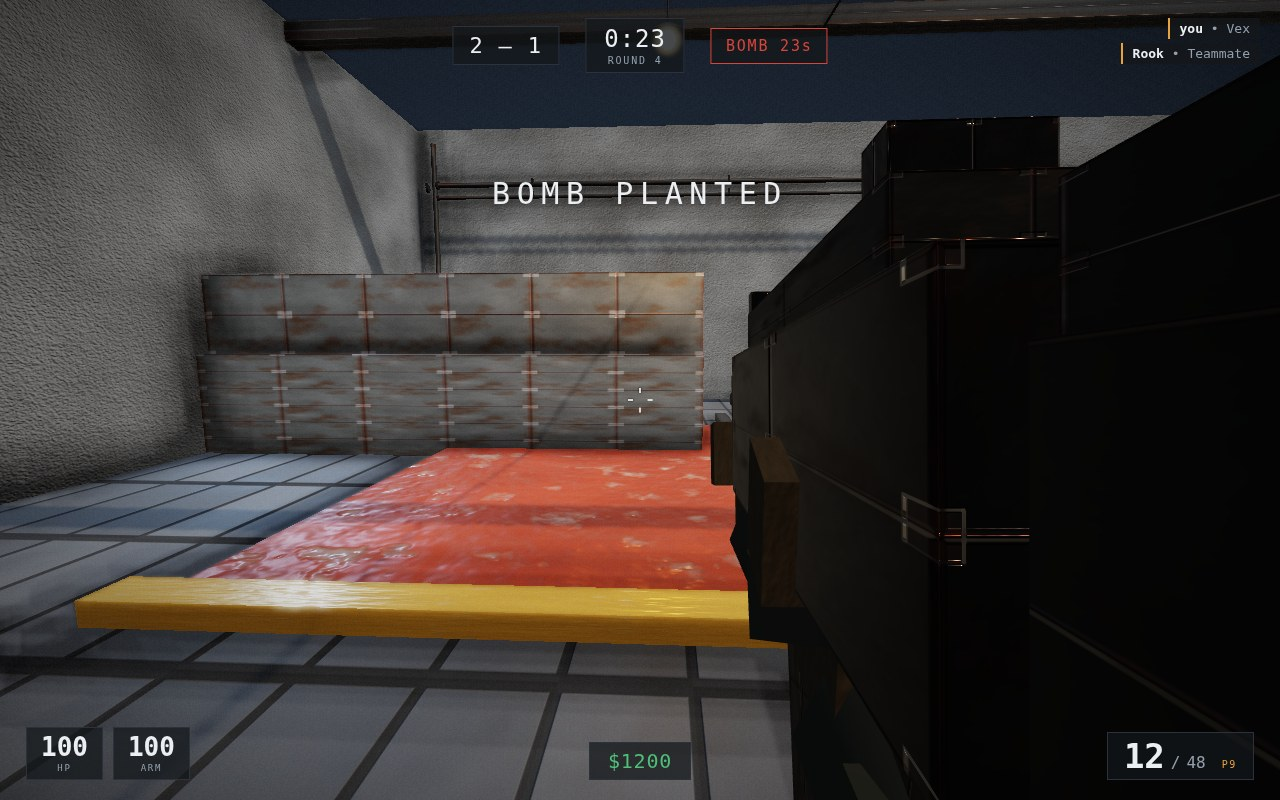
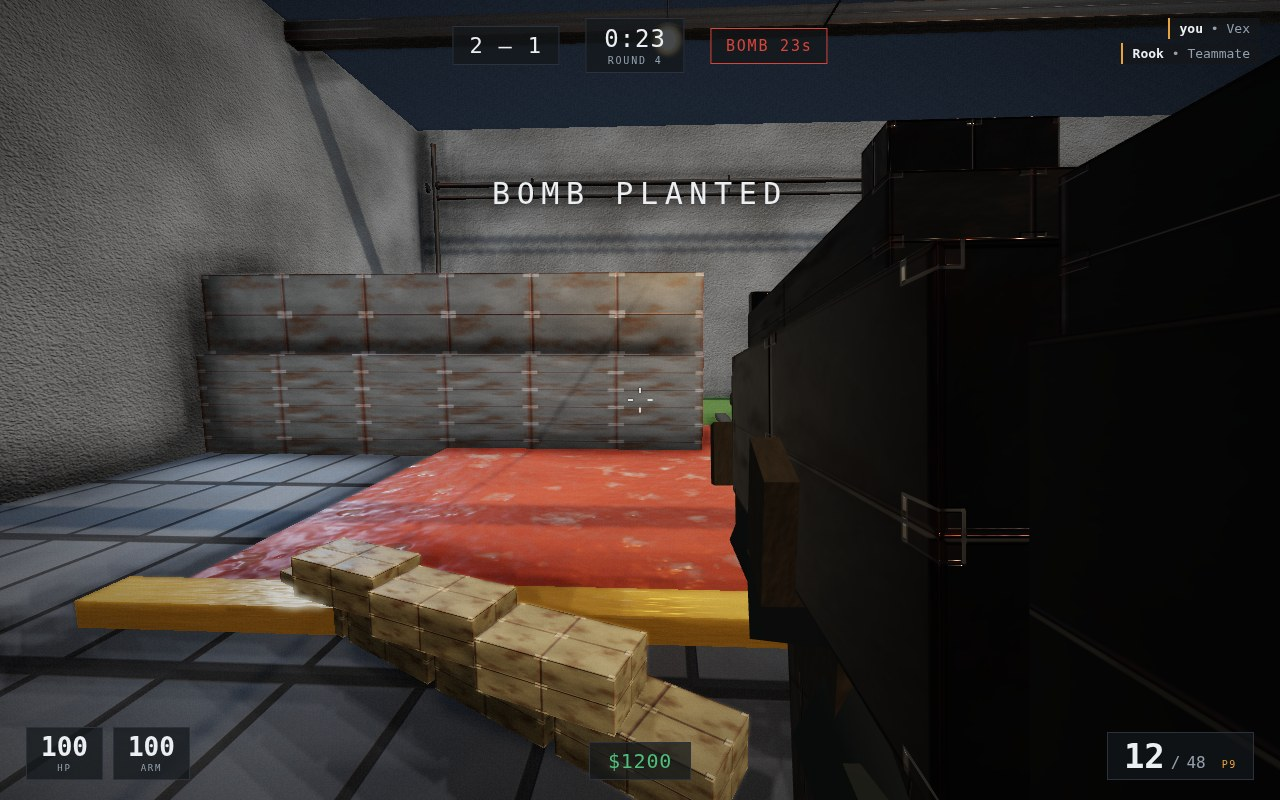
grass prosedural openmap + props (tong/sandbag) + visor glow tim

Changed region(s): [[0.1562, 0.6562, 0.625, 1.0], [0.5312, 0.5, 0.5938, 0.5312]]

diff --git a/game/src/grass.js b/game/src/grass.js
@@ -1,0 +1,148 @@
+// Grass: open patches of turf with instanced blades, so the map reads as open ground instead of one
+// continuous concrete slab. This is the "openmap" dressing: a few open areas (the spawn plateaus and
+// the mid connector) grow grass, and the edges stay concrete where the lanes and crates sit.
+//
+// Everything is procedural and original: a single turf texture painted on a canvas (green noise with
+// a few dry blades), and one InstancedMesh of crossed tapered blades that is scattered inside the
+// patches. A patch is a few hundred instances, so the whole field costs two draw calls.
+//
+// Nothing here is a collider or a shootable: grass is window dressing, exactly like the detail pass.
+
+import * as THREE from 'three';
+
+/** A blade of grass: a tapered quad, tip at the top, wider at the root. */
+function bladeGeometry(w = 0.05, h = 0.34) {
+  const g = new THREE.BufferGeometry();
+  const hw = w / 2;
+  const verts = new Float32Array([
+    -hw, 0, 0,  hw, 0, 0,  -hw * 0.25, h, 0,
+    hw, 0, 0,  hw * 0.25, h, 0,  -hw * 0.25, h, 0,
+  ]);
+  g.setAttribute('position', new THREE.BufferAttribute(verts, 3));
+  g.computeVertexNormals();
+  return g;
+}
+
+/** A tuft: two crossed blades so it reads as grass from any angle, not a flat card. */
+function tuftGeometry() {
+  const a = bladeGeometry(0.055, 0.36);
+  const b = bladeGeometry(0.045, 0.30);
+  b.rotateY(Math.PI / 2);
+  // Merge two Positions into one, keeping the normals from each part.
+  const merged = a.clone();
+  // three r0.1xx merge path: build a combined BufferGeometry from both position arrays.
+  const g = new THREE.BufferGeometry();
+  const pa = a.getAttribute('position');
+  const pb = b.getAttribute('position');
+  const na = a.getAttribute('normal');
+  const nb = b.getAttribute('normal');
+  const pos = new Float32Array(pa.count * 3 + pb.count * 3);
+  const nor = new Float32Array(pa.count * 3 + pb.count * 3);
+  pos.set(pa.array, 0);
+  nor.set(na.array, 0);
+  pos.set(pb.array, pa.count * 3);
+  nor.set(nb.array, pa.count * 3);
+  g.setAttribute('position', new THREE.BufferAttribute(pos, 3));
+  g.setAttribute('normal', new THREE.BufferAttribute(nor, 3));
+  return g;
+}
+
+/** A turf texture: mottled green with darker dry patches, painted once on a canvas. */
+function turfTexture(seed = 7) {
+  const size = 256;
+  const c = document.createElement('canvas');
+  c.width = size; c.height = size;
+  const ctx = c.getContext('2d');
+  let rng = seed * 1664525 + 1013904223;
+  const rnd = () => { rng = (rng * 1103515245 + 12345) & 0x7fffffff; return rng / 0x7fffffff; };
+  // Base green.
+  ctx.fillStyle = '#41602f';
+  ctx.fillRect(0, 0, size, size);
+  // Mottle.
+  const img = ctx.getImageData(0, 0, size, size);
+  const d = img.data;
+  for (let i = 0; i < d.length; i += 4) {
+    const v = (Math.random() < 0.5 ? 1 : -1) * Math.random() * 18;
+    d[i] = Math.max(0, Math.min(255, d[i] + v));             // R
+    d[i + 1] = Math.max(0, Math.min(255, d[i + 1] + v * 1.2)); // G
+    d[i + 2] = Math.max(0, Math.min(255, d[i + 2] + v * 0.4)); // B
+  }
+  ctx.putImageData(img, 0, 0);
+  // A few dry blades scratched on top.
+  ctx.strokeStyle = 'rgba(120,150,70,0.5)';
+  for (let i = 0; i < 260; i += 1) {
+    const x = rnd() * size, y = rnd() * size;
+    ctx.beginPath();
+    ctx.moveTo(x, y);
+    ctx.lineTo(x + (rnd() - 0.5) * 3, y - 4 - rnd() * 6);
+    ctx.stroke();
+  }
+  const tex = new THREE.CanvasTexture(c);
+  tex.wrapS = tex.wrapT = THREE.RepeatWrapping;
+  tex.colorSpace = THREE.SRGBColorSpace;
+  return tex;
+}
+
+/**
+ * Scatter grass across the open ground. `patches` is a list of [cx, cz, halfW, halfD] rectangles in
+ * map space; blades are dropped inside them with random yaw, scale and tint, and a flat turf slab is
+ * laid under each patch so the colour carries even where the blades have been walked over.
+ */
+export function createGrass(scene, bounds, patches) {
+  const { halfW: HW, halfL: HL } = bounds;
+  const group = new THREE.Group();
+
+  const turfTex = turfTexture(7);
+  const turfMat = new THREE.MeshStandardMaterial({
+    color: 0xffffff, roughness: 1.0, metalness: 0.0, map: turfTex,
+  });
+
+  // Turf slabs, slightly proud of the concrete floor so no z-fighting.
+  for (const [cx, cz, hw0, hd0] of patches) {
+    const slab = new THREE.Mesh(new THREE.BoxGeometry(hw0 * 2, 0.06, hd0 * 2), turfMat);
+    slab.position.set(cx, 0.02, cz);
+    slab.receiveShadow = true;
+    group.add(slab);
+  }
+
+  const tuftGeo = tuftGeometry();
+  const grassMat = new THREE.MeshStandardMaterial({
+    color: 0xffffff, roughness: 0.9, metalness: 0.0, side: THREE.DoubleSide,
+  });
+
+  let total = 0;
+  for (const [, , hw0, hd0] of patches) {
+    total += Math.round((hw0 * hd0) / 0.9); // ~1 tuft per ~0.9 m^2
+  }
+  const grass = new THREE.InstancedMesh(tuftGeo, grassMat, total);
+  grass.castShadow = true;
+  grass.receiveShadow = true;
+
+  const dummy = new THREE.Object3D();
+  const col = new THREE.Color();
+  let k = 0;
+  for (const [cx, cz, hw0, hd0] of patches) {
+    const n = Math.round((hw0 * hd0) / 0.9);
+    for (let i = 0; i < n && k < total; i += 1) {
+      const x = cx + (Math.random() * 2 - 1) * (hw0 - 0.15);
+      const z = cz + (Math.random() * 2 - 1) * (hd0 - 0.15);
+      dummy.position.set(x, 0.03, z);
+      dummy.rotation.set(0, Math.random() * Math.PI * 2, (Math.random() - 0.5) * 0.12);
+      const s = 0.7 + Math.random() * 0.9;
+      dummy.scale.set(s, s * (0.8 + Math.random() * 0.6), s);
+      dummy.updateMatrix();
+      grass.setMatrixAt(k, dummy.matrix);
+      // Green range: healthy grass to sun-bleached dry blade.
+      col.setHSL(0.27 + Math.random() * 0.06, 0.45 + Math.random() * 0.2, 0.28 + Math.random() * 0.22);
+      grass.setColorAt(k, col);
+      k += 1;
+    }
+  }
+  grass.count = k;
+  grass.instanceMatrix.needsUpdate = true;
+  if (grass.instanceColor) grass.instanceColor.needsUpdate = true;
+  group.add(grass);
+
+  scene.add(group);
+  return group;
+}

diff --git a/game/src/props.js b/game/src/props.js
@@ -1,0 +1,98 @@
+// Props: barrels and sandbag stacks, the cover that fills the open corners a bare crate cluster
+// leaves empty. Unlike the detail pass (pure decoration), these are real: a barrel or a sandbag is a
+// collider the player cannot walk through and a shootable the bullet stops on, because you hide
+// behind them and shoot through the gaps.
+//
+// Everything is built from primitives and shares texture maps with the rest of the map, so the cost
+// is a handful of draw calls. Each prop pushes its bounds into the movement colliders and its mesh
+// into the shootables, exactly like the boxes in createWorld.
+
+import * as THREE from 'three';
+import { chamferBox } from './detail.js';
+import { panelMaps } from './textures.js';
+
+/** A metal drum: a cylinder with rolled ribs, top and bottom rims, and a dentable plate cap. */
+function barrel(metalMat, rimMat) {
+  const g = new THREE.Group();
+  const body = new THREE.Mesh(new THREE.CylinderGeometry(0.36, 0.36, 0.92, 14), metalMat);
+  body.castShadow = true;
+  body.receiveShadow = true;
+  g.add(body);
+  // Two rolled ribs around the waist so the drum is not a plain tube.
+  for (const y of [-0.22, 0.24]) {
+    const rib = new THREE.Mesh(new THREE.CylinderGeometry(0.375, 0.375, 0.06, 14), rimMat);
+    rib.position.y = y;
+    rib.castShadow = true;
+    g.add(rib);
+  }
+  // Rimmed cap on top and bottom.
+  for (const y of [0.47, -0.47]) {
+    const rim = new THREE.Mesh(new THREE.CylinderGeometry(0.32, 0.32, 0.03, 14), rimMat);
+    rim.position.y = y;
+    g.add(rim);
+  }
+  return g;
+}
+
+/** A sandbag wall: two courses of chamfered sacks, the top one offset so the creases interlock. */
+function sandbagStack(sackMat) {
+  const g = new THREE.Group();
+  const sackGeo = chamferBox(0.72, 0.24, 0.36, 0.08);
+  for (let i = 0; i < 4; i += 1) {
+    const s = new THREE.Mesh(sackGeo, sackMat);
+    s.position.set((i - 1.5) * 0.72, 0.12, 0);
+    s.castShadow = true;
+    s.receiveShadow = true;
+    g.add(s);
+  }
+  for (let i = 0; i < 3; i += 1) {
+    const s = new THREE.Mesh(sackGeo, sackMat);
+    s.position.set((i - 1) * 0.72, 0.34, 0.08);
+    s.rotation.y = 0.15;
+    s.scale.set(0.92, 1.0, 0.92);
+    s.castShadow = true;
+    s.receiveShadow = true;
+    g.add(s);
+  }
+  return g;
+}
+
+/**
+ * Place props. Each entry is [x, z, yaw, kind] where kind is 'barrel' or 'sandbag'; the prop is
+ * dropped at (x, 0, z), rotated by `yaw`, and registered as both a collider and a shootable.
+ */
+export function addProps(scene, colliders, shootables, placements) {
+  const drumMaps = panelMaps({ size: 256, seed: 140, tint: [0.32, 0.25, 0.16] });
+  const drumMat = new THREE.MeshStandardMaterial({
+    color: 0xffffff, roughness: 0.55, metalness: 0.6,
+    map: drumMaps.map, normalMap: drumMaps.normalMap, roughnessMap: drumMaps.roughnessMap,
+    normalScale: new THREE.Vector2(0.7, 0.7),
+  });
+  const rimMat = new THREE.MeshStandardMaterial({ color: 0x2a2e33, roughness: 0.5, metalness: 0.7 });
+  const sackMaps = panelMaps({ size: 256, seed: 141, tint: [0.62, 0.55, 0.40] });
+  const sackMat = new THREE.MeshStandardMaterial({
+    color: 0xffffff, roughness: 0.95, metalness: 0.0,
+    map: sackMaps.map, normalMap: sackMaps.normalMap, roughnessMap: sackMaps.roughnessMap,
+    normalScale: new THREE.Vector2(0.8, 0.8),
+  });
+
+  let barrels = 0;
+  let sandbags = 0;
+  for (const [x, z, yaw, kind] of placements) {
+    const g = kind === 'barrel' ? barrel(drumMat, rimMat) : sandbagStack(sackMat);
+    const height = kind === 'barrel' ? 0.95 : 0.6;
+    const half = kind === 'barrel' ? 0.38 : 1.45;
+    g.position.set(x, 0, z);
+    g.rotation.y = yaw;
+    scene.add(g);
+
+    // Collider: a box that fits the prop's silhouette.
+    colliders.push(new THREE.Box3().setFromCenterAndSize(
+      new THREE.Vector3(x, height / 2, z), new THREE.Vector3(half * 2, height, half * 2)));
+    // Shootable: the group itself, so a bullet stops on any child mesh.
+    shootables.push(g);
+    if (kind === 'barrel') barrels += 1; else sandbags += 1;
+  }
+
+  return { barrels, sandbags, total: barrels + sandbags };
+}

diff --git a/game/src/world.js b/game/src/world.js
@@ -10,6 +10,8 @@
 import * as THREE from 'three';
 import { concreteMaps, panelMaps, crateMaps, floorMaps, paintMaps } from './textures.js';
 import { addDetail, chamferBox } from './detail.js';
+import { createGrass } from './grass.js';
+import { addProps } from './props.js';
 
 const WALL_COLOR = '#3c4550';
 const FLOOR_COLOR = '#4c545e';
@@ -240,6 +242,35 @@ export function createWorld(scene) {
   // Decoration: beams, pipes, cable runs, hanging lamps, kerbs, grates. None of it is a shootable
   // or a bot path; the colliders it adds are appended to the movement set below.
   const detail = addDetail(group, { halfW: HALF_W, halfL: HALF_L });
+
+  // Open ground: turf and grass blades on the spawn plateaus and the two side strips, so the map has
+  // an open-air pocket instead of one unbroken concrete floor. Decoration only, never a collider.
+  const grassPatches = [
+    [0, 29, 10, 3],       // attacker spawn field
+    [0, -29.5, 14, 2.5],  // defender spawn field
+    [-14, 6, 3, 6],       // left side strip
+    [14, 6, 3, 6],        // right side strip
+  ];
+  const grass = createGrass(group, { halfW: HALF_W, halfL: HALF_L }, grassPatches);
+
+  // Cover props: barrels and sandbags that double as colliders and shootables.
+  const propPlacements = [
+    // Site A approach and its platform.
+    [-11.5, -17, 0.3, 'barrel'],
+    [-14.5, -20.5, -0.5, 'sandbag'],
+    [-8, -13.5, 1.1, 'barrel'],
+    // Site B approach (mirrored).
+    [11.5, -17, -0.3, 'barrel'],
+    [14.5, -20.5, 0.5, 'sandbag'],
+    [8, -13.5, -1.1, 'barrel'],
+    // Mid connector cover.
+    [-4.5, -0.8, 1.5, 'sandbag'],
+    [4.5, 0.8, -0.4, 'barrel'],
+    // Lane cover on each side.
+    [-13.5, 5, 1.2, 'sandbag'],
+    [13.5, 5, -1.2, 'sandbag'],
+  ];
+  const props = addProps(group, colliders, shootables, propPlacements);
 
   const sites = [
     { id: 'A', center: new THREE.Vector3(-13.5, 0, -24), radius: 4.2 },

diff --git a/game/src/operator.js b/game/src/operator.js
@@ -79,6 +79,14 @@ export function createOperatorKit(renderer) {
     emissiveIntensity: 0.85,
   });
 
+  // A lit visor so the head reads as a face even at a glance: a dark lens with a soft team-tinted
+  // glow underneath, dimmer than the stripes (a beacon of light on every helmet would look wrong).
+  const visorMat = (side) => new THREE.MeshStandardMaterial({
+    color: 0x11151a, roughness: 0.25, metalness: 0.6,
+    emissive: side === 0 ? 0x3a1000 : 0x00243a,
+    emissiveIntensity: 1.6,
+  });
+
   // Shared geometry: built once, reused by every operator.
   const geo = {
     chest: taper(0.60, 0.66, 0.34, 0.94, 0.80),
@@ -111,6 +119,7 @@ export function createOperatorKit(renderer) {
     const cloth = fabric(side, variant);
     const skin = skinMat(side);
     const accent = accentMat(side);
+    const visorGlow = visorMat(side);
 
     // --- lower body: hips are the root of the leg chain ---
     const hips = new THREE.Group();
@@ -184,7 +193,7 @@ export function createOperatorKit(renderer) {
     const helmetStripe = new THREE.Mesh(geo.helmetStripe, accent);
     helmetStripe.position.set(0, 0.235, 0);
     head.add(helmetStripe);
-    const visor = new THREE.Mesh(geo.visor, rubberMat);
+    const visor = new THREE.Mesh(geo.visor, visorGlow);
     visor.position.set(0, 0.06, 0.16);
     head.add(visor);
 
